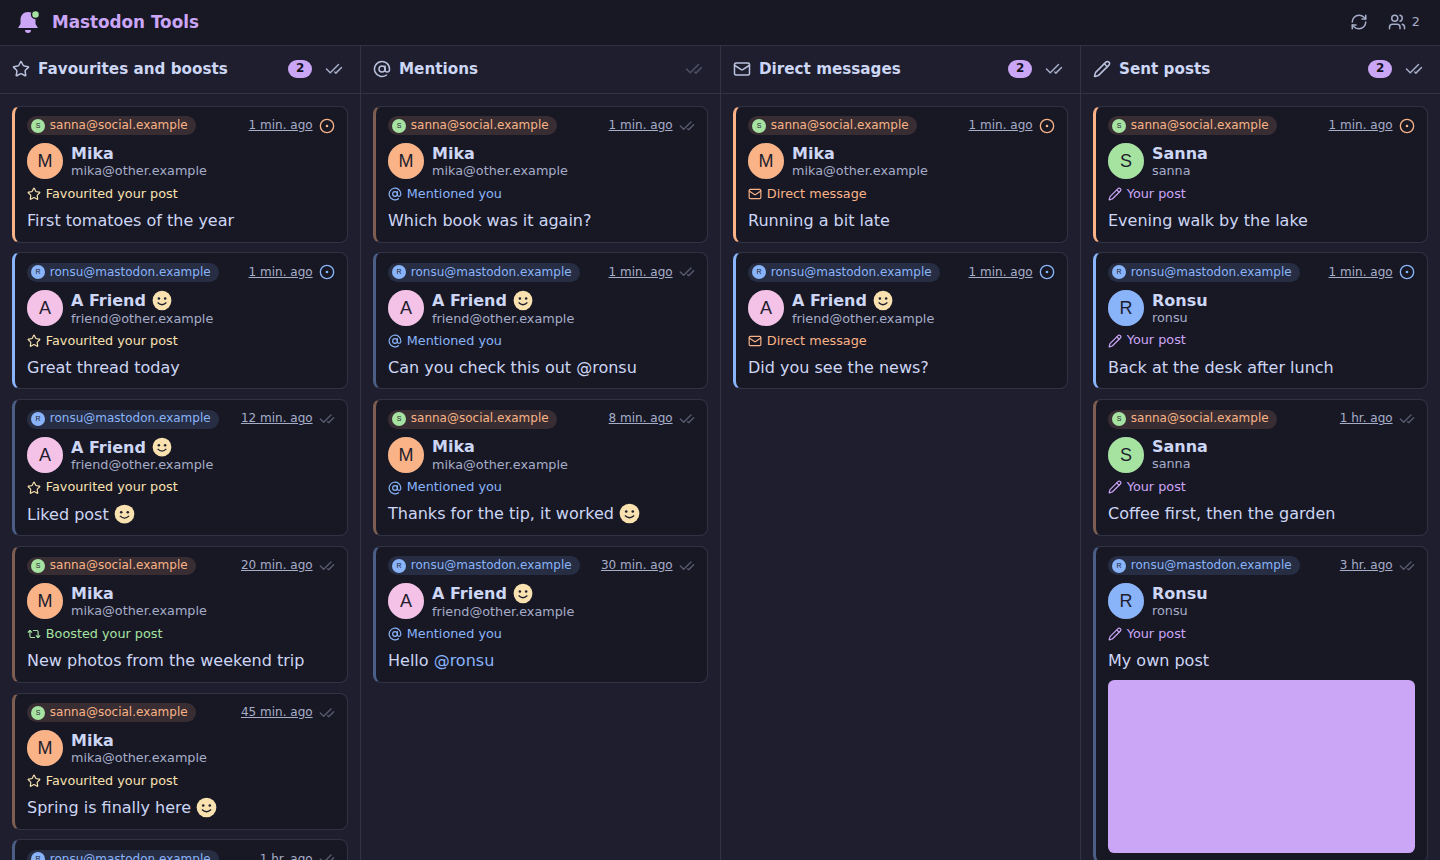
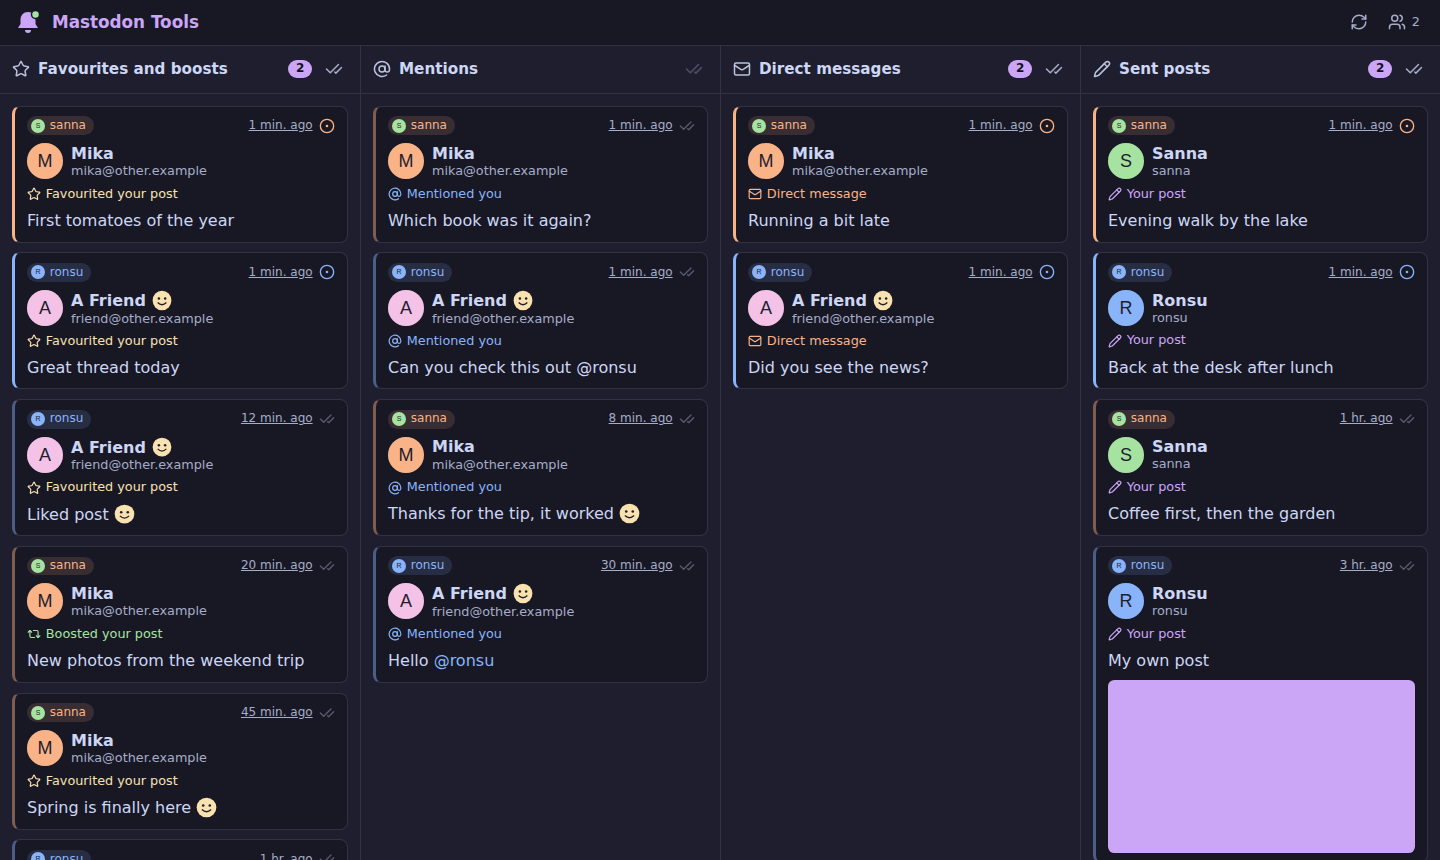
Show only the account name in the card chip

diff --git a/src/lib/accountColor.test.ts b/src/lib/accountColor.test.ts
@@ -1,5 +1,5 @@
 import { describe, expect, it } from 'vitest';
-import { accountColorClass } from './accountColor';
+import { accountColorClass, accountLabel } from './accountColor';
 
 describe('accountColorClass', () => {
   it('gives every account of the list its own color', () => {
@@ -10,5 +10,16 @@ describe('accountColorClass', () => {
   it('is stable and stays within the defined colors, also for unknown keys', () => {
     expect(accountColorClass('x', [])).toBe(accountColorClass('x', []));
     for (const key of ['a', 'b', '']) expect(accountColorClass(key, [])).toMatch(/^acc-[0-7]$/);
+  });
+});
+
+describe('accountLabel', () => {
+  it('drops the server when the name is unique among the accounts', () => {
+    expect(accountLabel('spottihinta@mastodon.example', ['spottihinta@mastodon.example', 'tapaaminen@mastodon.example'])).toBe('spottihinta');
+  });
+
+  it('keeps the server when two accounts have the same name', () => {
+    const accts = ['sanna@one.example', 'sanna@two.example'];
+    expect(accountLabel(accts[0], accts)).toBe('sanna@one.example');
   });
 });

diff --git a/src/lib/components/FeedCard.svelte b/src/lib/components/FeedCard.svelte
@@ -1,6 +1,6 @@
 <script lang="ts">
   import { CircleDot, CheckCheck, Repeat2 } from '@lucide/svelte';
-  import { accountColorClass } from '$lib/accountColor';
+  import { accountColorClass, accountLabel } from '$lib/accountColor';
   import { accountStore } from '$lib/accounts.svelte';
   import { COLUMN_ICONS } from '$lib/columnIcons';
   import type { FeedItem } from '$lib/feed';
@@ -52,7 +52,7 @@
     {#if owner}
       <span class="account" title={owner.acct}>
         {#if ownerAvatar}<img src={ownerAvatar} alt="" width="14" height="14" />{/if}
-        <span>{owner.acct}</span>
+        <span>{accountLabel(owner.acct, accountStore.list.map((a) => a.acct))}</span>
       </span>
     {/if}
     <span class="meta">

diff --git a/src/lib/accountColor.ts b/src/lib/accountColor.ts
@@ -12,3 +12,10 @@ export function accountColorClass(accountKey: string, accountKeys: string[]): st
   for (const char of accountKey) hash = (hash * 31 + char.charCodeAt(0)) >>> 0;
   return `acc-${hash % ACCOUNT_COLORS}`;
 }
+
+/** The short name for the account chip: the part before the server. Kept in full when another account has the same one. */
+export function accountLabel(acct: string, allAccts: string[]): string {
+  const name = acct.split('@')[0];
+  const shared = allAccts.filter((other) => other.split('@')[0] === name).length > 1;
+  return shared ? acct : name;
+}

diff --git a/CHANGELOG.md b/CHANGELOG.md
@@ -1,6 +1,7 @@
 ### Unreleased
 
 * Show a welcome page with the server field when no account is connected
+* Show only the account name in the account chip of a card, with the server when two accounts share the name
 * Give each account its own color by its place in the list, with colors far apart, instead of a hash that often repeated one
 
 ### 0.1.0: 2026-11-16
